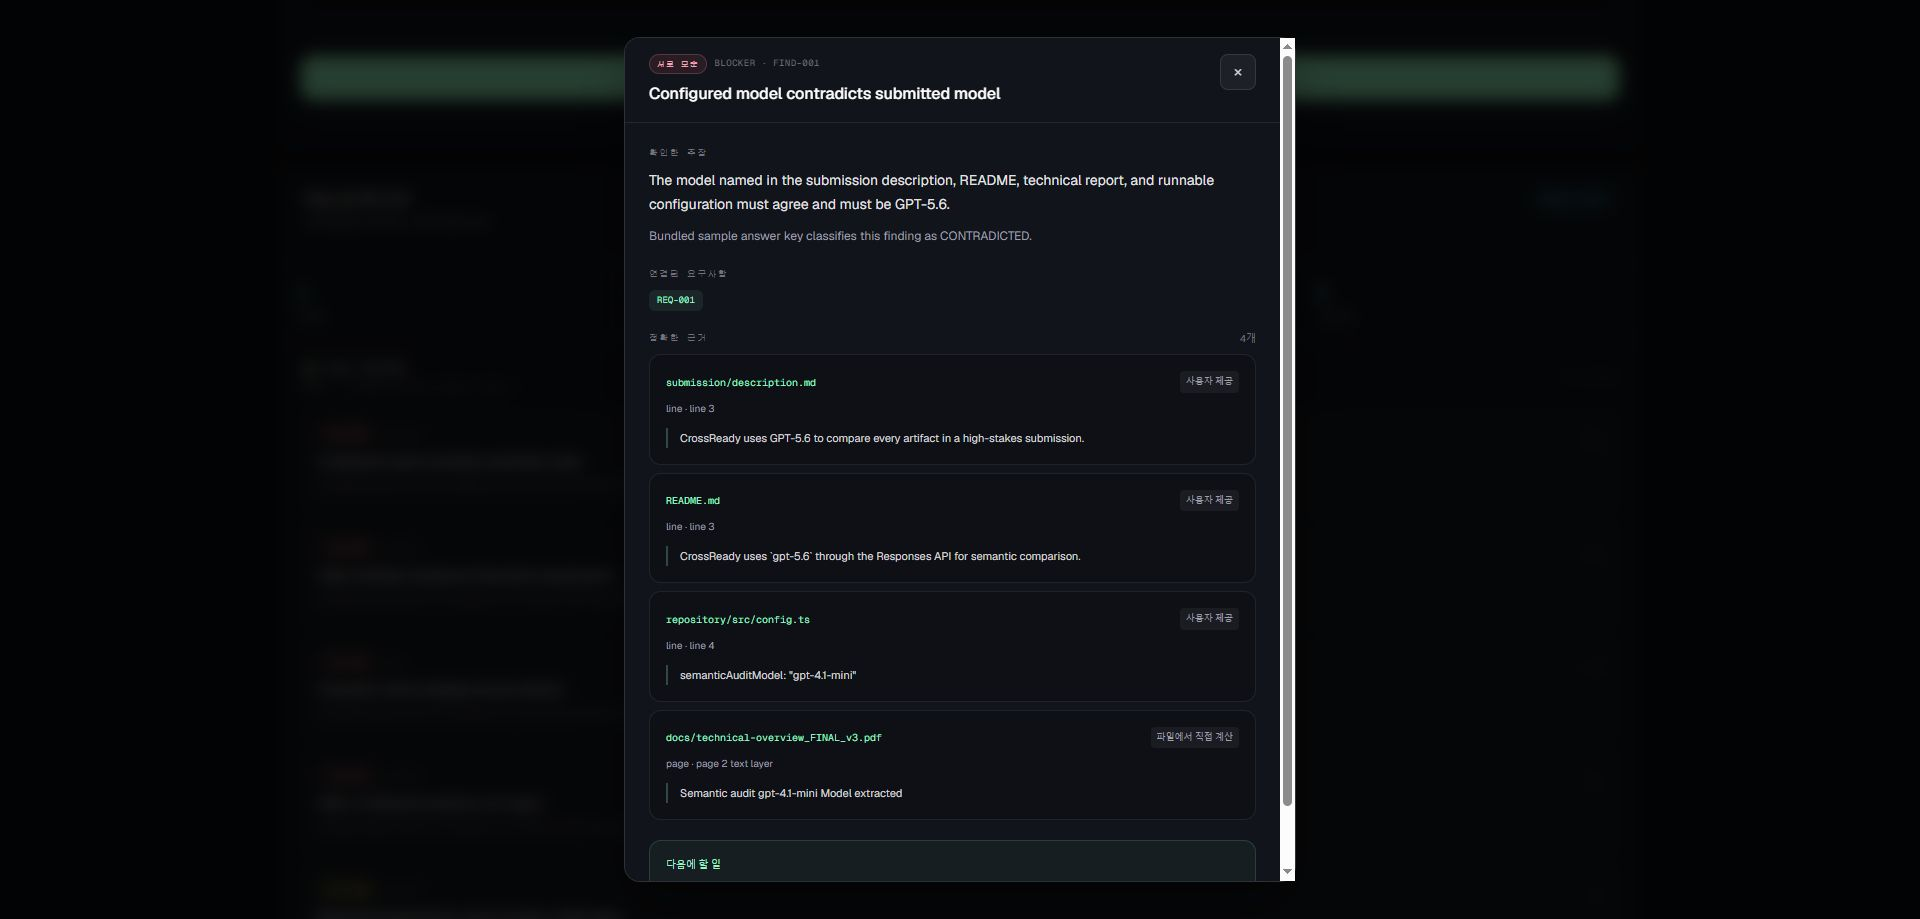
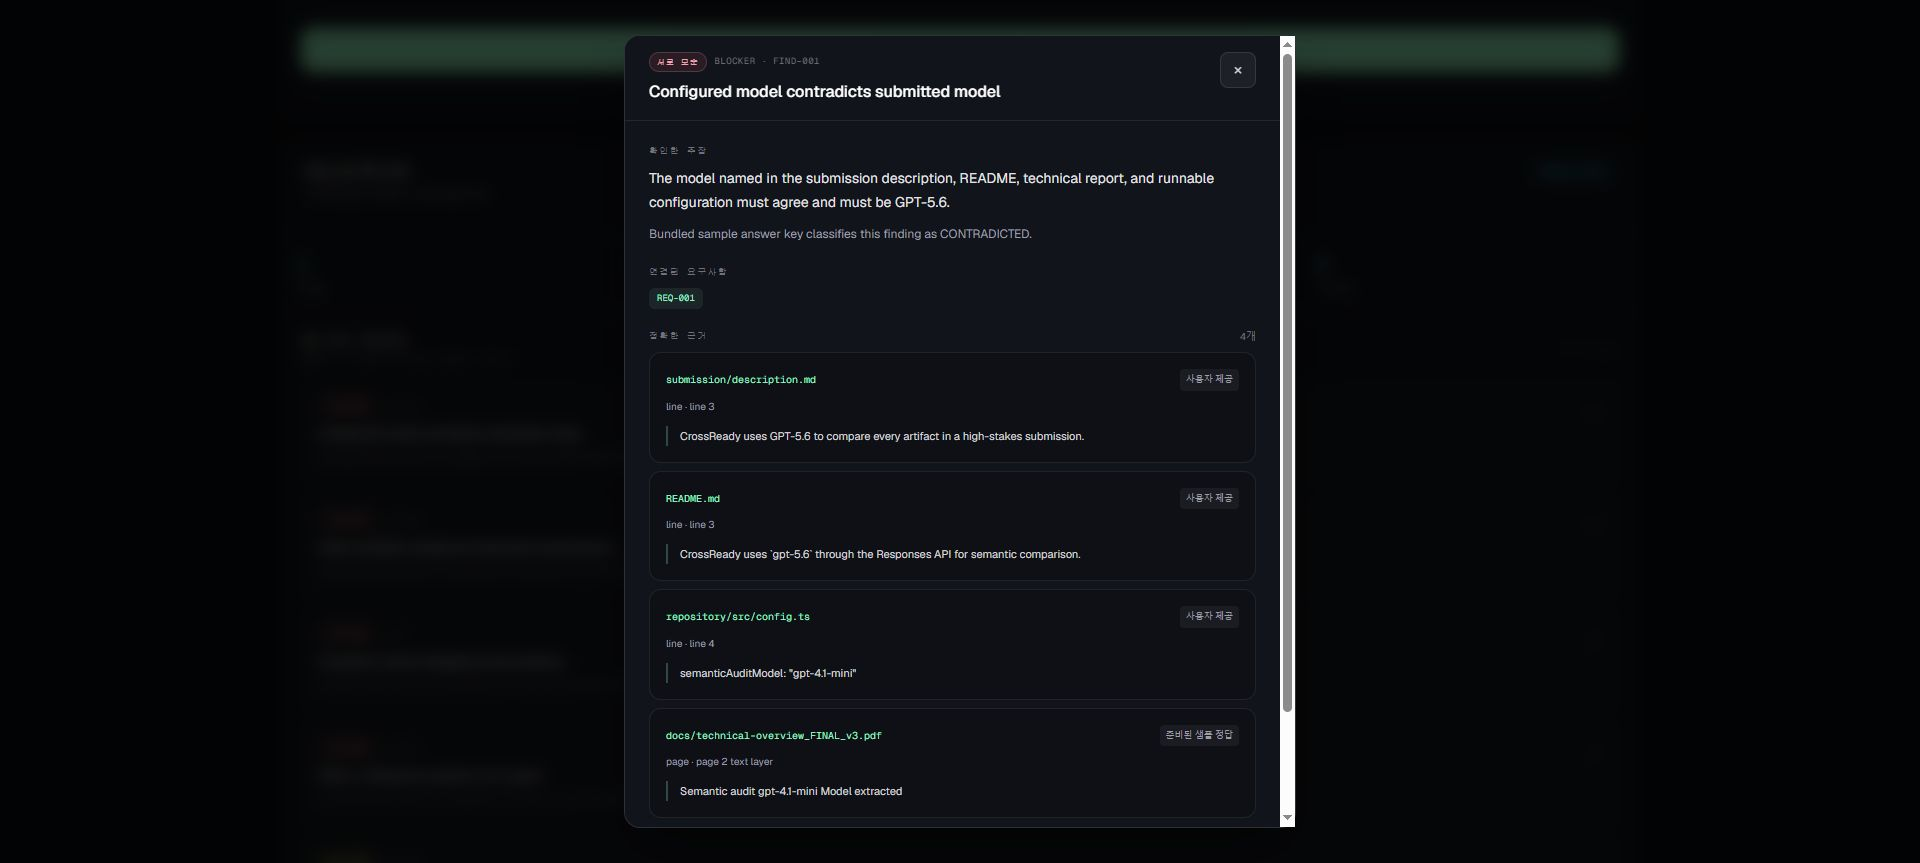
docs: record verified production release

diff --git a/notes/DEPLOYMENT_2026-07-18.md b/notes/DEPLOYMENT_2026-07-18.md
@@ -5,8 +5,8 @@
 - URL: <https://crossready-build-week.vercel.app/>
 - Vercel project: `crossready-build-week`
 - Project ID: `prj_hInUCuJgZaLiWWWUx6iu71w54xZY`
-- Production deployment ID: `dpl_14abTLKo1CM9wyNSCjuoAMfo4D8G`
-- Source commit: `f26570a1d25faa110b6620b1fc00a29f344f0ed2`
+- Production deployment ID: `dpl_6cXKQY41nheRTenWjwJ3rjFpDUpR`
+- Source commit: `3045e1f70fa58ab2667f7c0aff92aa1a59732ea3`
 - Verified: 2026-07-18 KST
 
 ## Cost boundary
@@ -47,6 +47,8 @@ screenshot, and the production deployment remains keyless.
 - Sample findings: 12
 - Status counts: 1 Proven, 8 Contradicted, 1 Missing, 2 Needs Human
 - First finding dialog: four exact evidence records displayed
+- Prepared PDF observations are labeled `준비된 샘플 정답`, while hashes
+  remain labeled as directly calculated facts
 - Browser console errors: 0
 - Runtime error/fatal logs: 0
 - Verified runtime responses: three HTTP 200 responses
@@ -63,5 +65,7 @@ screenshot, and the production deployment remains keyless.
 
 The first remote build completed while the new Vercel project still used the
 generic static-site preset, so its alias returned `404 NOT_FOUND`. The project
-framework was corrected to Next.js and the same source commit was redeployed.
-The production deployment above is the corrected, verified deployment.
+framework was corrected to Next.js and that source was successfully
+redeployed. The reviewer-ready source commit recorded above was later deployed
+through the corrected Next.js configuration and is the current verified
+production release.